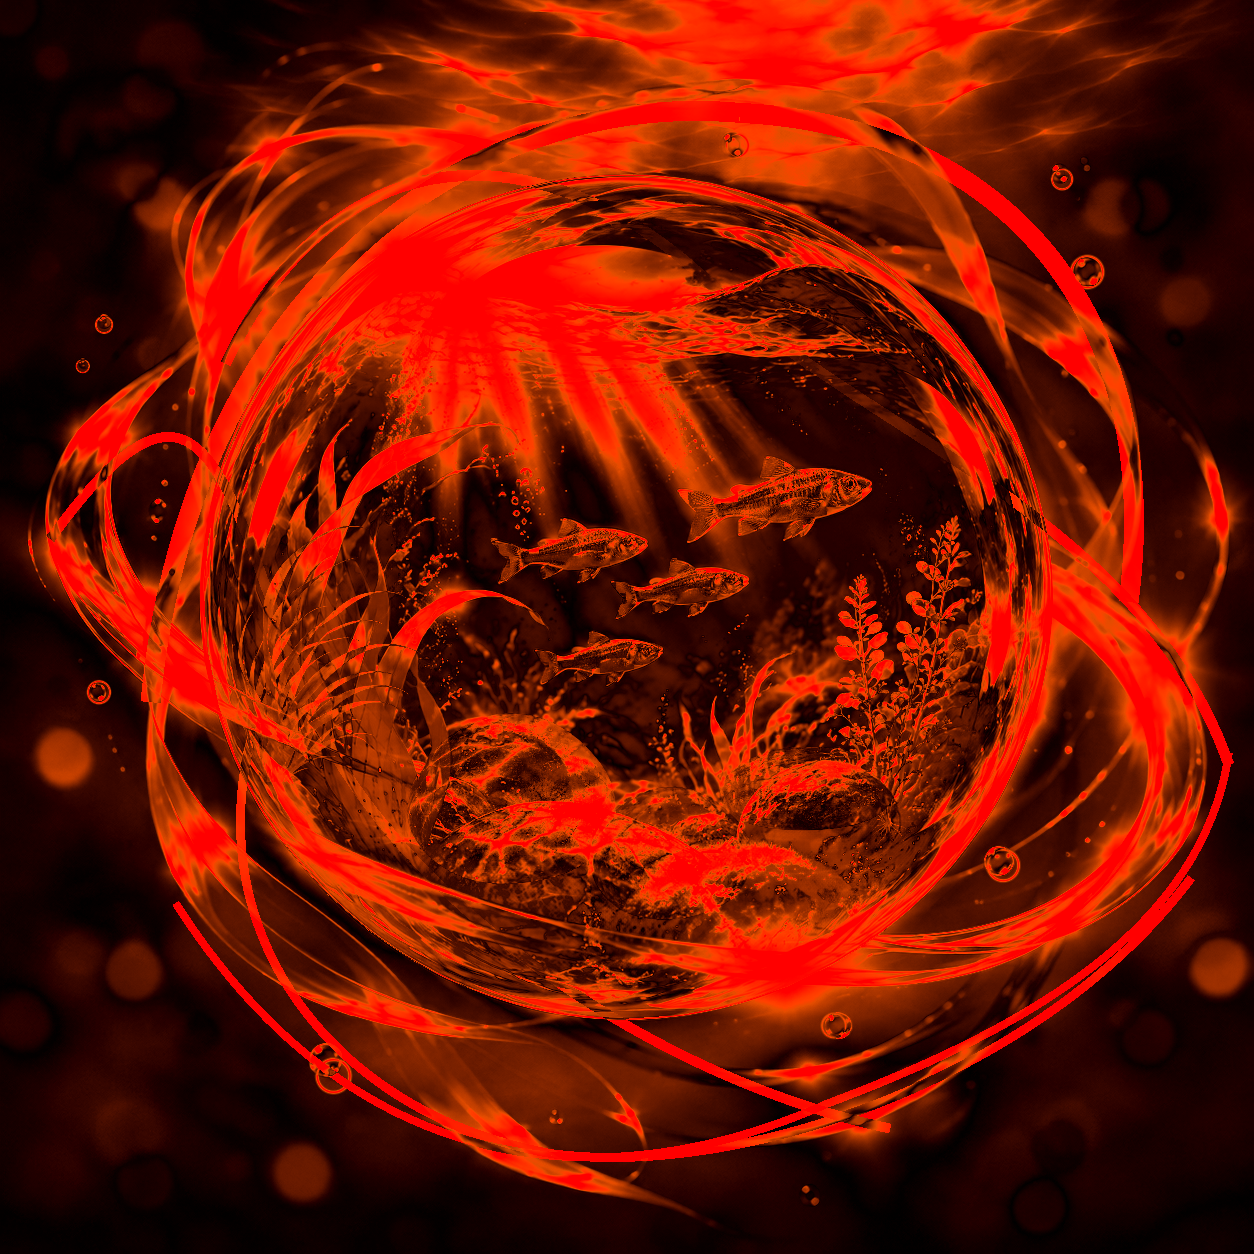
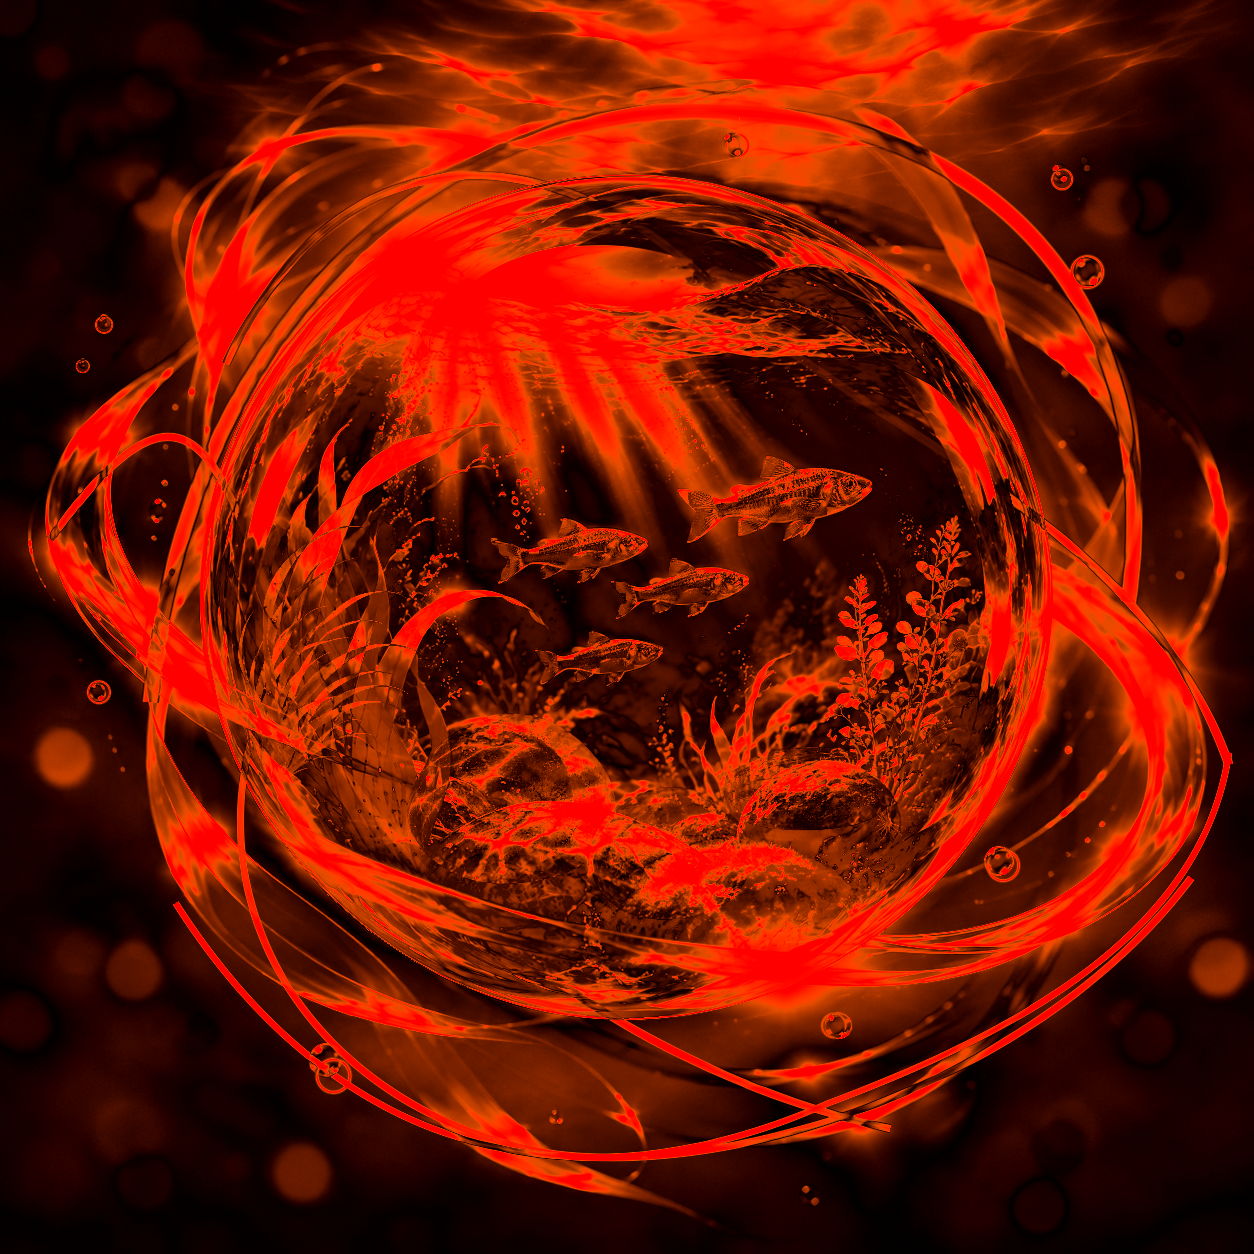
fix(water-world): soften source ribbon material with measured GLES gain

diff --git a/app/src/main/java/com/example/waterworld/WaterWorldProgram.kt b/app/src/main/java/com/example/waterworld/WaterWorldProgram.kt
@@ -68,6 +68,14 @@ internal class WaterWorldProgram {
             void main() {
                 vec4 base=mix(vec4(1.0),texture(uTexture,vUv),uUseTexture)*uTint;
                 if(base.a<0.001) discard;
+                // Ribbon UV.v spans the original stroke width; soften its boundary
+                // and concentrate emission around its center instead of a flat opaque band.
+                float ribbonWeight=step(0.001,uEmission)*(1.0-uUseTexture);
+                float across=abs(vUv.y*2.0-1.0);
+                float ribbonAlpha=1.0-smoothstep(0.55,1.0,across);
+                float ribbonCrest=exp(-18.0*across*across);
+                base.a*=mix(1.0,ribbonAlpha,ribbonWeight);
+                base.rgb*=mix(1.0,0.55+0.45*ribbonCrest,ribbonWeight);
                 float diffuse=max(dot(normalize(vNormal),normalize(uLightDirection)),0.0);
                 float edge=pow(1.0-abs(normalize(vNormal).z),3.0);
                 base.a*=mix(1.0,0.025+0.975*edge,uFresnel);
